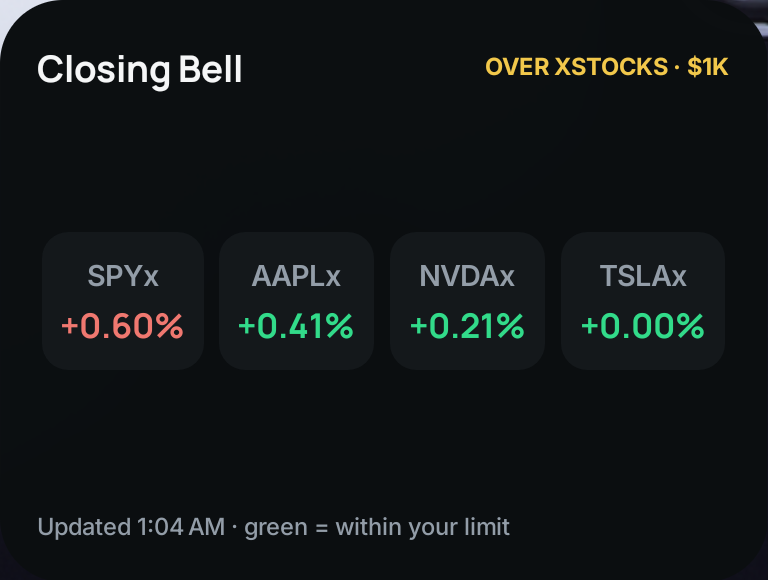
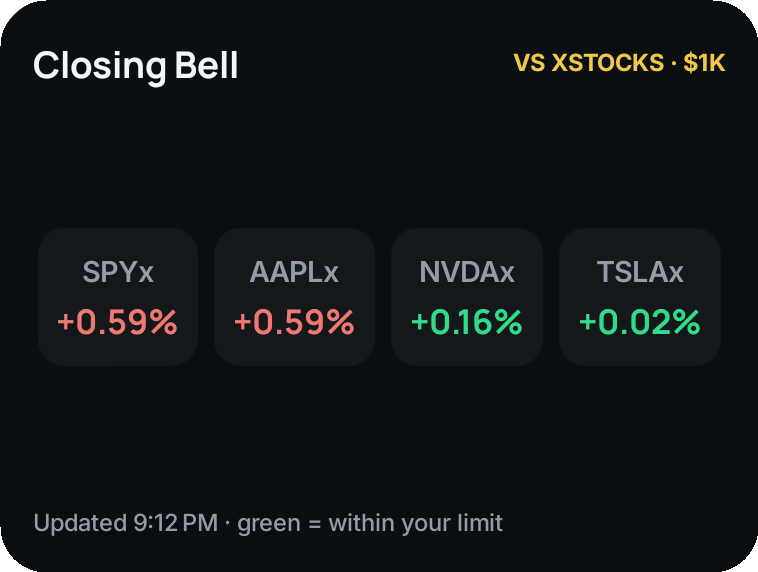
Show a negative zero gap as 0.00% and refresh the widget preview
Tiny negative gaps rounded to -0.00% on the widget and in the app; a
shared formatter rounds to whole basis points first and has a test.
The widget picker preview still read OVER XSTOCKS with old numbers;
it is now a capture of the live widget.

diff --git a/src/widget/RouteWidget.tsx b/src/widget/RouteWidget.tsx
@@ -1,6 +1,6 @@
 import React from 'react';
 import { FlexWidget, TextWidget } from 'react-native-android-widget';
-import { markets, Ticker } from '../api';
+import { markets, percent, Ticker } from '../api';
 
 export type WidgetRow = { ticker: Ticker; bps: number | null; limitBps: number };
 
@@ -11,7 +11,6 @@ const updatedLabel = (at: number) => {
   const clock = date.toLocaleTimeString([], { hour: '2-digit', minute: '2-digit' });
   return date.toDateString() === new Date().toDateString() ? clock : `${date.toLocaleDateString([], { weekday: 'short' })} ${clock}`;
 };
-const pct = (bps: number) => `${bps >= 0 ? '+' : ''}${(bps / 100).toFixed(2)}%`;
 
 /** Home-screen view of the latest $1,000 route cost over xStocks' price, per token. */
 export function RouteWidget({ rows, updatedAt }: { rows: WidgetRow[]; updatedAt: number | null }) {
@@ -25,7 +24,7 @@ export function RouteWidget({ rows, updatedAt }: { rows: WidgetRow[]; updatedAt:
         const tone = row.bps === null ? colors.faint : row.bps <= row.limitBps ? colors.green : colors.red;
         return <FlexWidget key={row.ticker} style={{ backgroundColor: colors.card, borderRadius: 10, paddingVertical: 8, paddingHorizontal: 6, flexDirection: 'column', alignItems: 'center', flex: 1, marginHorizontal: 2 }}>
           <TextWidget text={row.ticker} style={{ fontSize: 11, fontFamily: 'Inter_600SemiBold', color: colors.faint }} />
-          <TextWidget text={row.bps === null ? '—' : pct(row.bps)} maxLines={1} style={{ fontSize: 13, fontFamily: 'Manrope_700Bold', color: tone }} />
+          <TextWidget text={row.bps === null ? '—' : percent(row.bps)} maxLines={1} style={{ fontSize: 13, fontFamily: 'Manrope_700Bold', color: tone }} />
         </FlexWidget>;
       })}
     </FlexWidget>

diff --git a/src/api.ts b/src/api.ts
@@ -155,7 +155,7 @@ export async function getPositions(address: string, signal?: AbortSignal) {
 }
 
 export const usd = (value: number) => `$${value.toLocaleString('en-US', { minimumFractionDigits: 2, maximumFractionDigits: 2 })}`;
-export const percent = (bps: number) => `${bps >= 0 ? '+' : ''}${(bps / 100).toFixed(2)}%`;
+export { percent } from './format';
 /** The gap in words for sentences and pills: "0.61% over", or "0.08% under" when Jupiter is cheaper. */
 export const isUnder = (bps: number) => bps <= -0.5;
 export const gapWords = (bps: number) => `${(Math.abs(bps) / 100).toFixed(2)}% ${isUnder(bps) ? 'under' : 'over'}`;

diff --git a/src/format.ts b/src/format.ts
@@ -1,0 +1,5 @@
+/** A signed gap such as "+0.61%"; rounds to whole basis points first so tiny negatives read "0.00%", never "-0.00%". */
+export function percent(bps: number) {
+  const rounded = Math.round(bps);
+  return `${rounded > 0 ? '+' : rounded < 0 ? '-' : ''}${(Math.abs(rounded) / 100).toFixed(2)}%`;
+}
